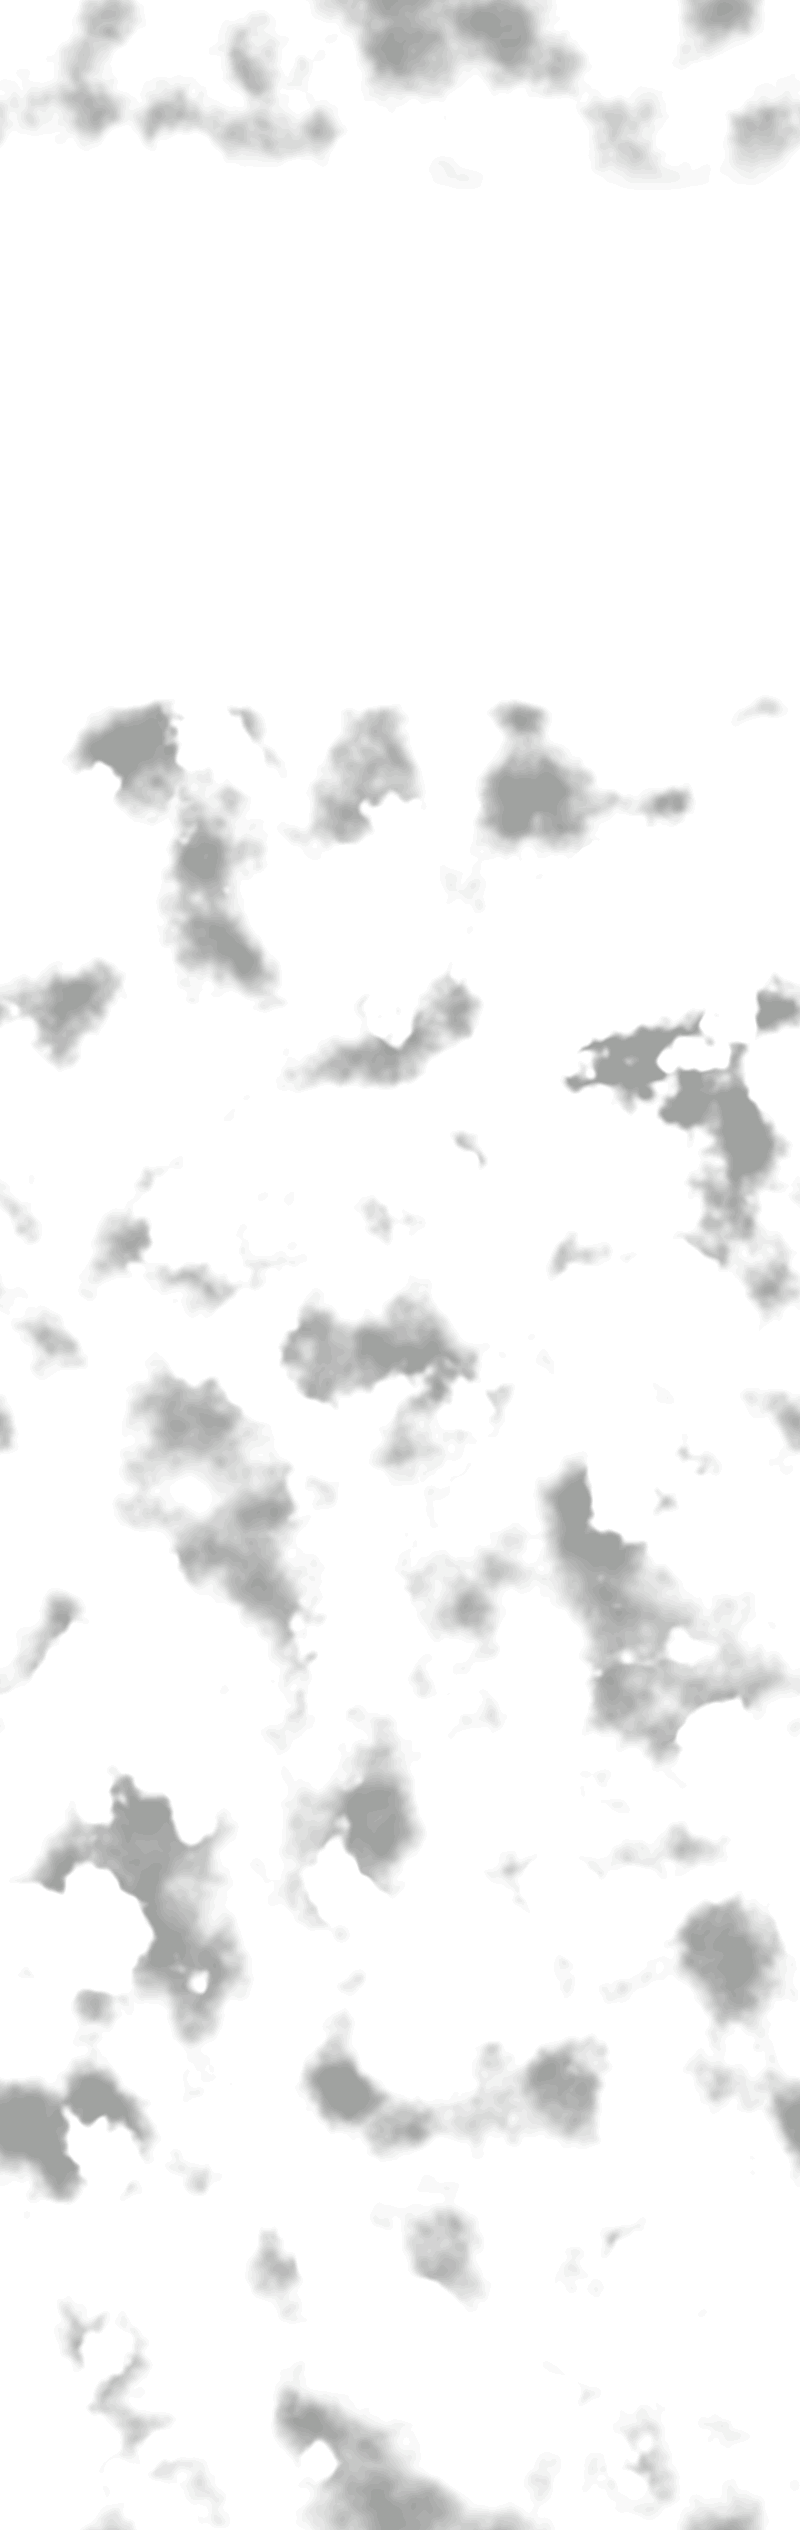
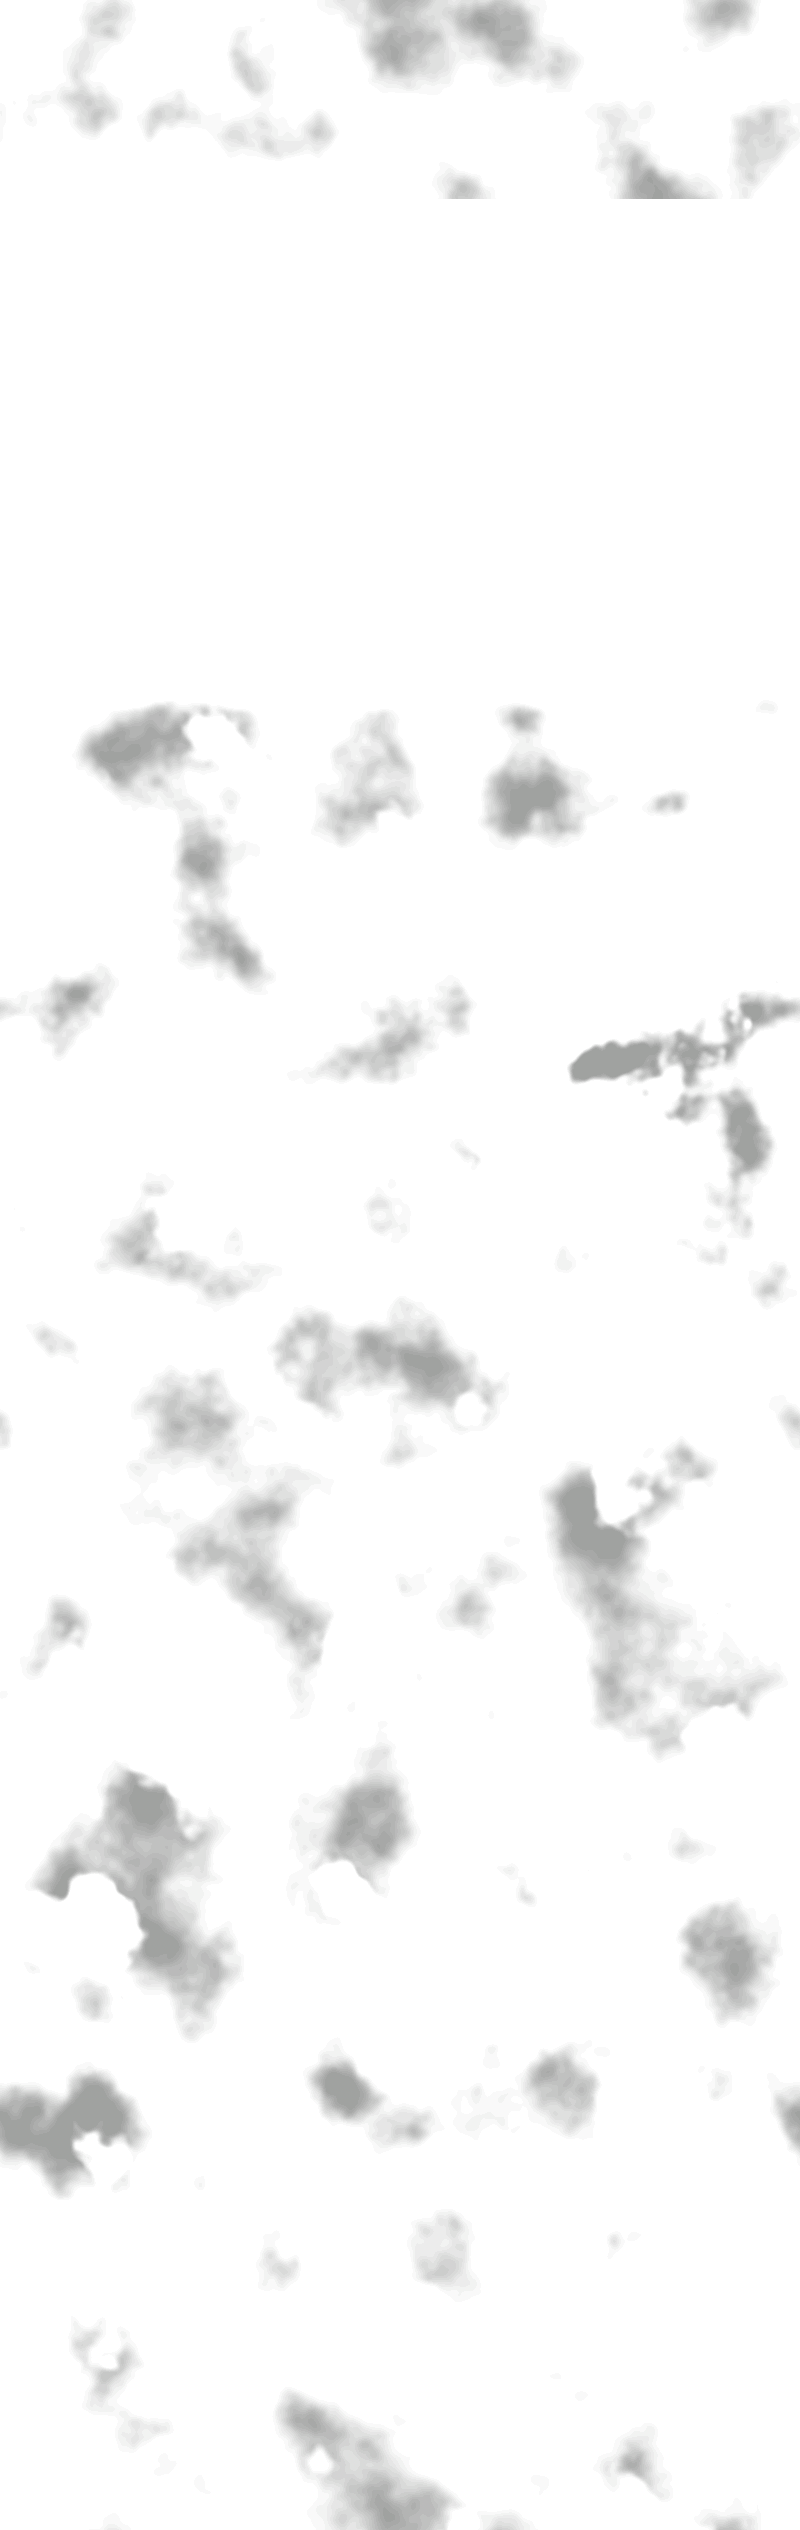
Fewer wisps in front of the texts, gone before the video is halfway up
About half as many wisps (and so fewer shadows); both nearer layers fade
out as the video rises, gone before its top reaches the middle of the
screen. The Variety quote's cut-off stays as it was.

diff --git a/public/main.js b/public/main.js
@@ -104,10 +104,11 @@ function update() {
   // The sky behind the logo moves up, at a third of the scrolling (it's far away).
   introLogo.style.setProperty("--sky-y", `${(-0.35 * Math.min(window.scrollY, logoHold.offsetHeight)).toFixed(1)}px`);
 
-  // The nearer clouds; they fade away as the video comes up (gone before it fills the
-  // screen).
+  // The nearer clouds; they fade away as the video comes up (gone before its top reaches
+  // the middle of the screen).
   const edgeAtMiddle = 0.5 * vh - 0.12 * bank.height;
-  const nearGone = range(film.getBoundingClientRect().top / vh, 0.55, 0.2);
+  const filmUp = film.getBoundingClientRect().top / vh;
+  const nearGone = range(filmUp, 0.95, 0.55);
   for (const [layer, speed, lead] of cloudLayers) {
     const ly = speed * (bank.top - edgeAtMiddle) + lead * vh;
     layer.style.visibility = nearGone < 1 && ly < vh && ly + layer.offsetHeight > 0 ? "visible" : "hidden";

diff --git a/tools/cloud_depth.py b/tools/cloud_depth.py
@@ -83,7 +83,7 @@ clear = 1 - smooth(1.45, 1.55, at)
 lift = 0.3 * clear - 0.05 * dense  # higher threshold: fewer wisps; lower: more
 # Some wisps soft, almost a gradient, others with a crisper edge.
 edge = 0.03 + 0.17 * noise(h, w, [(220, 1.0)])
-a = smooth(0.68 + lift - edge, 0.68 + lift + edge, n) * smooth(0.0, 0.02, y) * (1 - smooth(0.97, 1.0, y))
+a = smooth(0.74 + lift - edge, 0.74 + lift + edge, n)  # (0.74: few of them) * smooth(0.0, 0.02, y) * (1 - smooth(0.97, 1.0, y))
 lit = np.clip(0.5 + 6.0 * (n - np.roll(n, 14, axis=0)), 0, 1)[..., None]
 rgb = np.array([178, 186, 192], np.float32) + np.array([70, 66, 60], np.float32) * lit  # whiter than the bank behind, so they show
 Image.fromarray(np.dstack([rgb, a[..., None] * 190]).clip(0, 255).astype(np.uint8)).save(f"{out}/clouds-veil.png")

diff --git a/README.md b/README.md
@@ -4,7 +4,7 @@ Static website, served by Render from `public/` (no build step).
 
 - `public/favicon.png`, `apple-touch-icon.png` — the icon: mountain ridges in the evening haze
 - `public/laurels.webp` — festival laurels at the top of the homepage, nine in one strip, each sized to the same visual weight, built from the trimmed originals in `tools/laurels/` (one row beside the menu button; on phones the same strip in one row above the logo, drifting right to left for ever and draggable (main.js))
-- `public/index.html`, `style.css`, `main.js` — homepage: logo over the sky photo (`sky.webp`), the storm clouds (`clouds.webp`, a seamless sideways tile drifting steadily with the wind; the sky photo behind the logo moves up at a third of the scrolling; the logo and its button are masked with `clouds-mask.webp` so they go behind the bank (hidden even where it is only haze) instead of showing through; nearer layers move and drift faster the closer they are: puffs between the bank and the texts (`clouds-mid.webp`) and see-through wisps in front of them (`clouds-veil.webp`), all made by `tools/cloud_depth.py`; the wisps (already up in the sky over the logo when the page opens, sparse there) cast shadows of their own shape and edge (soft or crisp) 0.6 of a screen below themselves, as from a high sun (none behind a wisp; baked into `clouds-shade.webp`; the wisps are one long strip, with clear sky around the logo as the page opens and a group above the last quote, for its shadows), on the letters of the logo, the texts and the press logos only (a darkened copy of the logo masked with `clouds-shade.webp`; the texts' colour is a background clipped to the letters with those shapes over it), following their drift; the logline and quotes ride up into the centre and stay, the last (Variety) going behind the cumulus near the bank's bottom as it rises (masked with `clouds-below-mask.webp`); arriving over the top third of the video and scrolling on away as it zooms in, made from the storm photo by `tools/clouds.py`: a top edge shaped by the cloud forms, softened toward the film's overcast sky lower down, the thick middle extended, the bottom faded) scroll up over it carrying the logline and two press quotes (Screen Daily, then Variety; logos `press-*.png`), each cross-fading into the next and fade onto the film clip (`bg2-light.mp4`, 1280 wide and under 1 MB, is what the loading screen waits for; the full-quality `bg2.mp4`, 12 s, 1920×1072, H.264, no audio, then loads behind it and fades in over it, in step; `bg2-poster.webp`, its first frame, shows until it plays), which plays and loops on its own while on screen (on phones it starts 2 s in the first time, then loops whole; `bg2-poster-mobile.webp` is that frame); scrolling on zooms it straight in and blurs it (not fully); as it blurs, the poster (`poster.webp`), the synopsis and the About the film and trailer buttons come into focus in place, over the blurred video, still playing (on phones stacked: poster full width, heading, synopsis, buttons, footer, moved up by main.js over the pinned video as you scroll, from the moment it starts to show), and the page ends there. A loading screen (the light sky colour #939ca2, a small dark blue bar and percentage) holds the page until fonts, images and the clip are loaded; then the logo comes into focus
+- `public/index.html`, `style.css`, `main.js` — homepage: logo over the sky photo (`sky.webp`), the storm clouds (`clouds.webp`, a seamless sideways tile drifting steadily with the wind; the sky photo behind the logo moves up at a third of the scrolling; the logo and its button are masked with `clouds-mask.webp` so they go behind the bank (hidden even where it is only haze) instead of showing through; nearer layers move and drift faster the closer they are: puffs between the bank and the texts (`clouds-mid.webp`) and see-through wisps in front of them (`clouds-veil.webp`), all made by `tools/cloud_depth.py`; the wisps (already up in the sky over the logo when the page opens, sparse there) cast shadows of their own shape and edge (soft or crisp) 0.6 of a screen below themselves, as from a high sun (none behind a wisp; baked into `clouds-shade.webp`; the wisps are one long strip, few of them, fading away as the video comes up, with clear sky around the logo as the page opens and a group above the last quote, for its shadows), on the letters of the logo, the texts and the press logos only (a darkened copy of the logo masked with `clouds-shade.webp`; the texts' colour is a background clipped to the letters with those shapes over it), following their drift; the logline and quotes ride up into the centre and stay, the last (Variety) going behind the cumulus near the bank's bottom as it rises (masked with `clouds-below-mask.webp`); arriving over the top third of the video and scrolling on away as it zooms in, made from the storm photo by `tools/clouds.py`: a top edge shaped by the cloud forms, softened toward the film's overcast sky lower down, the thick middle extended, the bottom faded) scroll up over it carrying the logline and two press quotes (Screen Daily, then Variety; logos `press-*.png`), each cross-fading into the next and fade onto the film clip (`bg2-light.mp4`, 1280 wide and under 1 MB, is what the loading screen waits for; the full-quality `bg2.mp4`, 12 s, 1920×1072, H.264, no audio, then loads behind it and fades in over it, in step; `bg2-poster.webp`, its first frame, shows until it plays), which plays and loops on its own while on screen (on phones it starts 2 s in the first time, then loops whole; `bg2-poster-mobile.webp` is that frame); scrolling on zooms it straight in and blurs it (not fully); as it blurs, the poster (`poster.webp`), the synopsis and the About the film and trailer buttons come into focus in place, over the blurred video, still playing (on phones stacked: poster full width, heading, synopsis, buttons, footer, moved up by main.js over the pinned video as you scroll, from the moment it starts to show), and the page ends there. A loading screen (the light sky colour #939ca2, a small dark blue bar and percentage) holds the page until fonts, images and the clip are loaded; then the logo comes into focus
 - `public/gate.js` — password screen on every page (remembered in the browser once entered). Keeps casual visitors out only: the files themselves stay reachable. To change the password, put its hash (see `hash()` in the file) in `HASH`
 - `public/trailer.js` — "Watch the trailer" buttons (under the logo and beside About the film) open the YouTube trailer in a player over the darkened page
 - `public/site.css`, `menu.js`, `menu.html` — shared styles and the menu (Home, About the film, Trailer (opens the player), Screenings & Awards, Press, Soundtrack, Community, Contact; a pill at the top right: three lines, then MENU; it opens the menu as a page of its own, `menu.html`, in its own darker olive, so iPhone Safari's bands match it; the X goes back to the page you came from, where you were; pages cross-fade where browsers can): listed at the top of `menu.js`, the page you came from in italics, and the footer on every page (credits, designer, Instagram, Facebook, IMDb, TMDB; on the homepage at the bottom of the synopsis screen)
